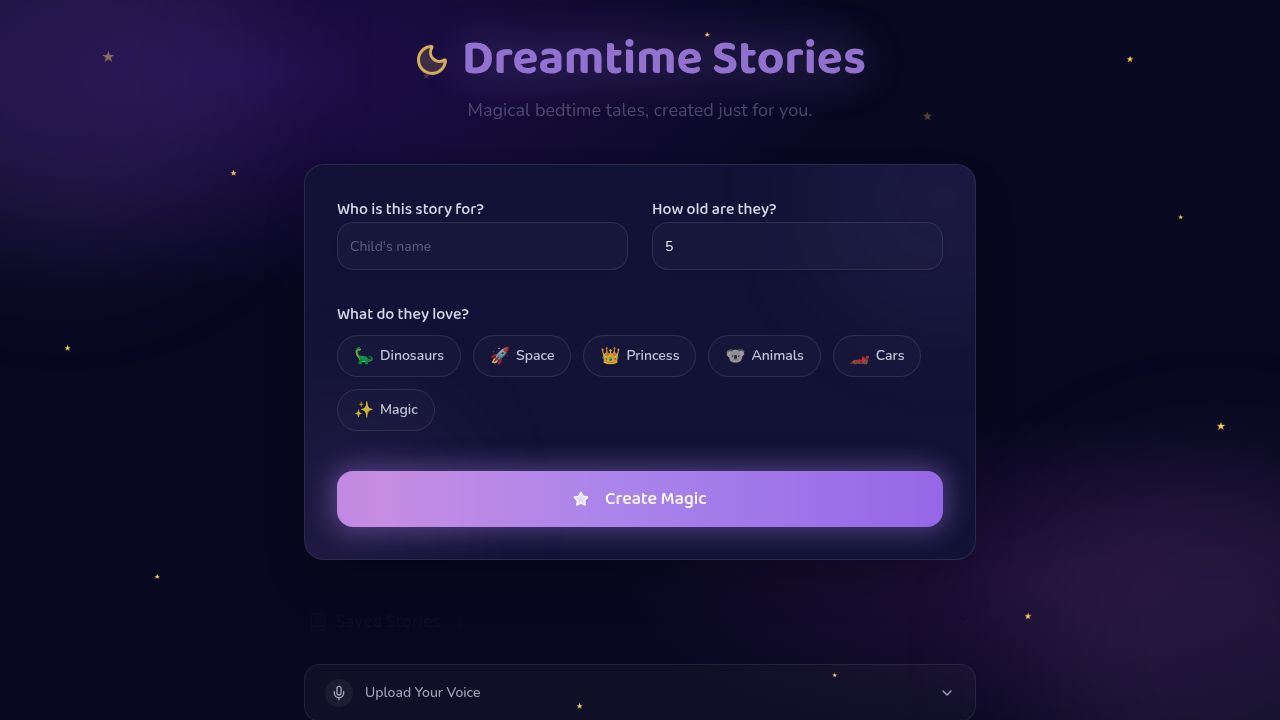
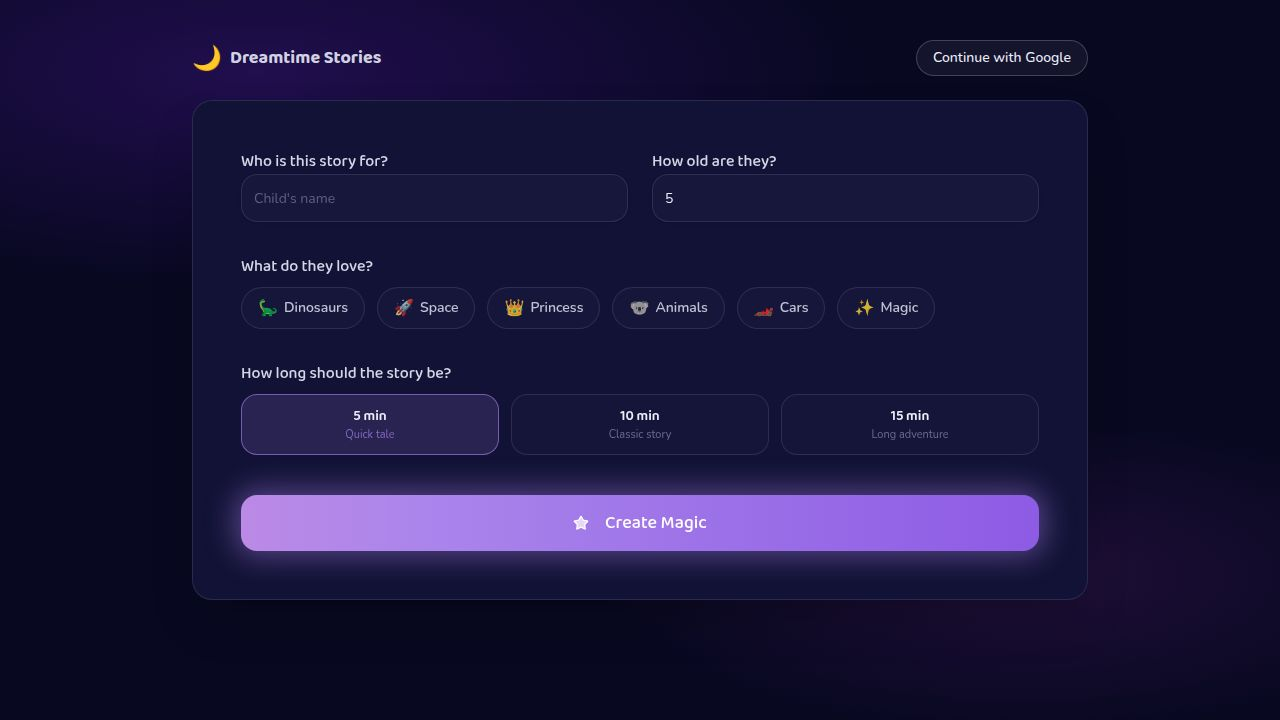
Add story length preference and scope user data to authenticated users
Update API endpoints and schema to include `storyLength` preference. Scope saved stories and preferences to authenticated users, improving data management and user experience.

Replit-Commit-Author: Agent
Replit-Commit-Session-Id: e0445c25-b22c-42a2-88ae-5162b5bf7d94
Replit-Commit-Checkpoint-Type: full_checkpoint
Replit-Commit-Event-Id: 56846b41-311a-4ed2-b006-a84653afe668
Replit-Commit-Screenshot-Url: https://storage.googleapis.com/screenshot-production-us-central1/8263fbb0-2650-44da-8c6f-74b397555973/e0445c25-b22c-42a2-88ae-5162b5bf7d94/YbQellm
Replit-Helium-Checkpoint-Created: true

diff --git a/artifacts/api-server/src/routes/preferences.ts b/artifacts/api-server/src/routes/preferences.ts
@@ -10,6 +10,7 @@ const PreferencesBody = z.object({
   childName: z.string().max(50).nullable().optional(),
   age: z.number().int().min(1).max(12).nullable().optional(),
   interests: z.array(z.string()).optional(),
+  storyLength: z.enum(["5min", "10min", "15min"]).optional(),
 });
 
 router.get("/preferences", requireAuth, async (req: AuthRequest, res) => {
@@ -21,7 +22,7 @@ router.get("/preferences", requireAuth, async (req: AuthRequest, res) => {
       .limit(1);
 
     if (!prefs) {
-      res.json({ childName: null, age: null, interests: [] });
+      res.json({ childName: null, age: null, interests: [], storyLength: null });
       return;
     }
 
@@ -29,6 +30,7 @@ router.get("/preferences", requireAuth, async (req: AuthRequest, res) => {
       childName: prefs.childName ?? null,
       age: prefs.age ?? null,
       interests: prefs.interests ? (JSON.parse(prefs.interests) as string[]) : [],
+      storyLength: prefs.storyLength ?? null,
     });
   } catch (err) {
     req.log.error({ err }, "Failed to fetch preferences");
@@ -43,7 +45,7 @@ router.put("/preferences", requireAuth, async (req: AuthRequest, res) => {
     return;
   }
 
-  const { childName, age, interests } = result.data;
+  const { childName, age, interests, storyLength } = result.data;
 
   try {
     const [saved] = await db
@@ -53,6 +55,7 @@ router.put("/preferences", requireAuth, async (req: AuthRequest, res) => {
         childName: childName ?? null,
         age: age ?? null,
         interests: interests !== undefined ? JSON.stringify(interests) : null,
+        storyLength: storyLength ?? null,
         updatedAt: new Date(),
       })
       .onConflictDoUpdate({
@@ -61,6 +64,7 @@ router.put("/preferences", requireAuth, async (req: AuthRequest, res) => {
           ...(childName !== undefined && { childName: childName ?? null }),
           ...(age !== undefined && { age: age ?? null }),
           ...(interests !== undefined && { interests: JSON.stringify(interests) }),
+          ...(storyLength !== undefined && { storyLength: storyLength ?? null }),
           updatedAt: new Date(),
         },
       })
@@ -70,6 +74,7 @@ router.put("/preferences", requireAuth, async (req: AuthRequest, res) => {
       childName: saved!.childName ?? null,
       age: saved!.age ?? null,
       interests: saved!.interests ? (JSON.parse(saved!.interests) as string[]) : [],
+      storyLength: saved!.storyLength ?? null,
     });
   } catch (err) {
     req.log.error({ err }, "Failed to save preferences");

diff --git a/artifacts/story-app/src/pages/home.tsx b/artifacts/story-app/src/pages/home.tsx
@@ -80,18 +80,17 @@ export default function Home() {
     defaultValues: { childName: "", age: 5, interests: [], length: "5min" },
   });
 
-  // Pre-fill form with saved preferences once when they load
   useEffect(() => {
     if (!preferences || prefsApplied) return;
     const patch: Partial<z.infer<typeof formSchema>> = {};
     if (preferences.childName) patch.childName = preferences.childName;
     if (preferences.age) patch.age = preferences.age;
     if (preferences.interests?.length) patch.interests = preferences.interests;
+    if (preferences.storyLength) patch.length = preferences.storyLength;
     if (Object.keys(patch).length > 0) form.reset({ ...form.getValues(), ...patch });
     setPrefsApplied(true);
   }, [preferences, prefsApplied, form]);
 
-  // Reset prefsApplied when user signs out so next sign-in re-applies
   useEffect(() => {
     if (!firebaseUser) setPrefsApplied(false);
   }, [firebaseUser]);
@@ -105,12 +104,12 @@ export default function Home() {
         onSuccess: (result) => {
           setGeneratedStory({ title: result.title, story: result.story, emoji: result.emoji, childName: values.childName });
           recordActivity();
-          // Persist preferences for next visit
           if (firebaseUser) {
             void savePreferences({
               childName: values.childName,
               age: values.age,
               interests: values.interests,
+              storyLength: values.length,
             });
           }
         },

diff --git a/artifacts/api-server/src/routes/savedStories.ts b/artifacts/api-server/src/routes/savedStories.ts
@@ -1,6 +1,6 @@
 import { Router } from "express";
 import { db, savedStoriesTable } from "@workspace/db";
-import { and, desc, eq, isNull } from "drizzle-orm";
+import { and, desc, eq, isNull, or } from "drizzle-orm";
 import { optionalAuth } from "../middleware/optionalAuth";
 import type { AuthRequest } from "../middleware/requireAuth";
 
@@ -12,7 +12,7 @@ router.get("/saved-stories", optionalAuth, async (req: AuthRequest, res) => {
     const stories = await db
       .select()
       .from(savedStoriesTable)
-      .where(userId ? eq(savedStoriesTable.userId, userId) : isNull(savedStoriesTable.userId))
+      .where(userId ? or(eq(savedStoriesTable.userId, userId), isNull(savedStoriesTable.userId)) : isNull(savedStoriesTable.userId))
       .orderBy(desc(savedStoriesTable.createdAt));
     res.json(stories);
   } catch (err) {
@@ -55,8 +55,8 @@ router.post("/saved-stories", optionalAuth, async (req: AuthRequest, res) => {
 });
 
 router.delete("/saved-stories/:id", optionalAuth, async (req: AuthRequest, res) => {
-  const id = parseInt(req.params.id, 10);
-  if (isNaN(id)) {
+  const id = Number(req.params.id);
+  if (!Number.isInteger(id)) {
     res.status(400).json({ error: "Invalid story ID." });
     return;
   }

diff --git a/artifacts/story-app/src/hooks/usePreferences.ts b/artifacts/story-app/src/hooks/usePreferences.ts
@@ -13,6 +13,7 @@ export interface UserPreferences {
   childName: string | null;
   age: number | null;
   interests: string[];
+  storyLength: "5min" | "10min" | "15min" | null;
 }
 
 async function getToken(): Promise<string | null> {
@@ -38,7 +39,6 @@ export function usePreferences() {
         setPreferences((await res.json()) as UserPreferences);
       }
     } catch {
-      // silently fail — preferences are a convenience, not critical
     } finally {
       setLoading(false);
     }
@@ -60,7 +60,6 @@ export function usePreferences() {
         setPreferences((await res.json()) as UserPreferences);
       }
     } catch {
-      // silently fail
     }
   }, []);
 

diff --git a/artifacts/api-server/src/routes/story.ts b/artifacts/api-server/src/routes/story.ts
@@ -32,9 +32,9 @@ router.post("/generate-story", async (req, res) => {
     return;
   }
 
-  const { childName, age, interests, length = "5min" } = result.data;
+  const { childName, age, interests, storyLength = "5min" } = result.data;
   const interestsList = interests.join(", ");
-  const wordCount = LENGTH_MAP[length] ?? LENGTH_MAP["5min"];
+  const wordCount = LENGTH_MAP[storyLength] ?? LENGTH_MAP["5min"];
 
   try {
     const completion = await openai.chat.completions.create({

diff --git a/artifacts/story-app/src/contexts/AuthContext.tsx b/artifacts/story-app/src/contexts/AuthContext.tsx
@@ -118,7 +118,7 @@ export function AuthProvider({ children }: { children: ReactNode }) {
   }, []);
 
   const signInWithGoogle = useCallback(async () => {
-    if (!auth || !googleProvider) throw new Error("Firebase not configured");
+    if (!auth || !googleProvider) return;
     const result = await signInWithPopup(auth, googleProvider);
     const p = await syncUserWithBackend(result.user);
     setProfile(p);

diff --git a/lib/db/src/schema/preferences.ts b/lib/db/src/schema/preferences.ts
@@ -6,6 +6,7 @@ export const preferencesTable = pgTable("preferences", {
   childName: text("child_name"),
   age: integer("age"),
   interests: text("interests"),
+  storyLength: text("story_length"),
   updatedAt: timestamp("updated_at").defaultNow().notNull(),
 });
 
